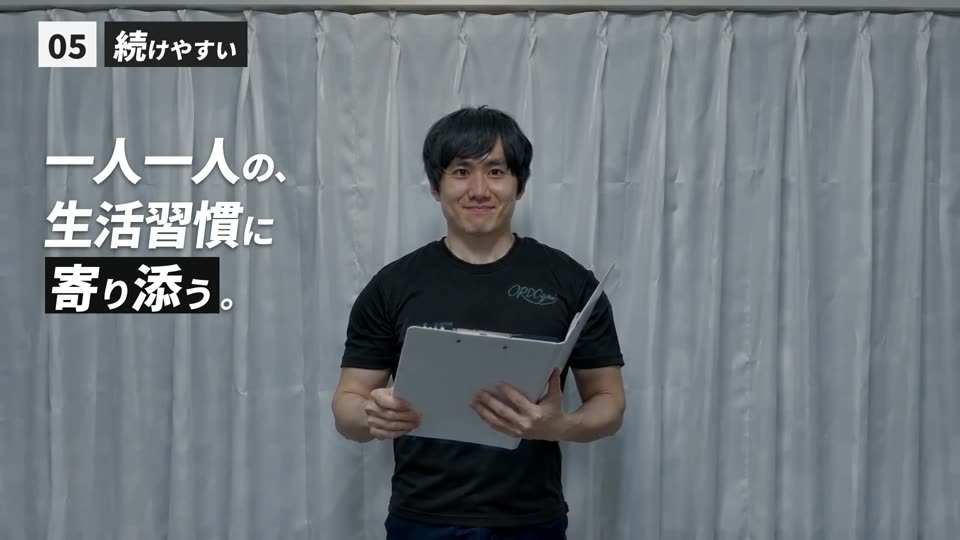
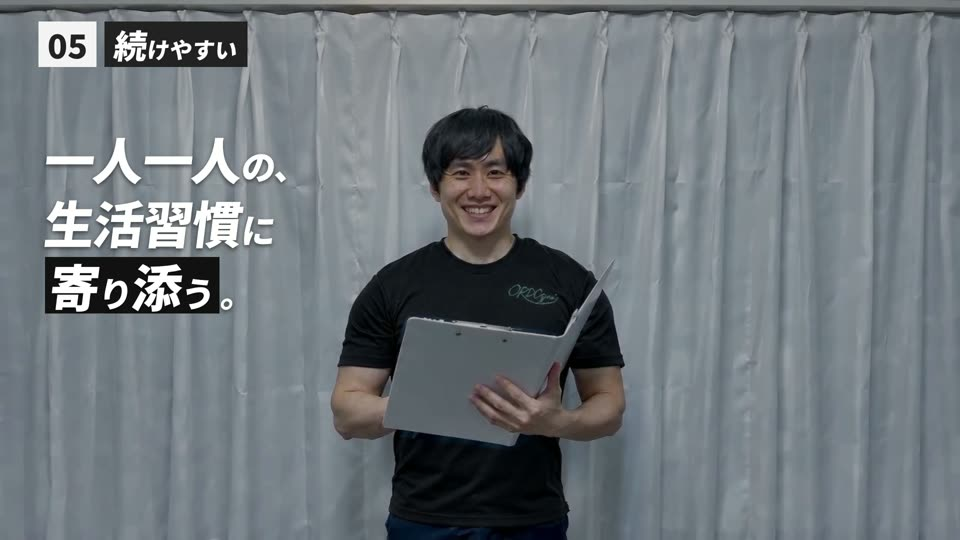
ORDOgni 確認ページ v2：YouTubeを最新版に差し替え・最後の画面と笑顔の場面の画像を更新

diff --git a/ordogni-final-v2.html b/ordogni-final-v2.html
@@ -73,11 +73,11 @@ strong{color:var(--ink)}
 <!-- ============ ジム編 ============ -->
 <h2 id="gym">1本目：ジム編<small>51秒 ／ 1920×1080（16:9） ／ BGM・テロップ入り</small></h2>
 <div class="card">
-  <div class="yt"><iframe src="https://www.youtube.com/embed/e6xOpqrxdqg?rel=0&playsinline=1" referrerpolicy="strict-origin-when-cross-origin" allow="accelerometer; autoplay; clipboard-write; encrypted-media; gyroscope; picture-in-picture; web-share" title="ORDOgni様 ジム編 広告動画 修正版" loading="lazy" allowfullscreen></iframe></div>
+  <div class="yt"><iframe src="https://www.youtube.com/embed/QjiWtywwHGg?rel=0&playsinline=1" referrerpolicy="strict-origin-when-cross-origin" allow="accelerometer; autoplay; clipboard-write; encrypted-media; gyroscope; picture-in-picture; web-share" title="ORDOgni様 ジム編 広告動画 修正版" loading="lazy" allowfullscreen></iframe></div>
   <div class="body">
     <span class="tag">ジム編</span>
     <p>「ちゃんと鍛えてる？」という迷いから、相談→提案→サポート→報告→続けやすさの5章で、お二人のジムの進め方を見せる構成です。</p>
-    <a class="dl" href="https://youtu.be/e6xOpqrxdqg" target="_blank" rel="noopener">YouTubeで見る（限定公開）</a>
+    <a class="dl" href="https://youtu.be/QjiWtywwHGg" target="_blank" rel="noopener">YouTubeで見る（限定公開）</a>
   </div>
 </div>
 
@@ -87,9 +87,9 @@ strong{color:var(--ink)}
   <li>片手でダンベルを引くカットを外しました（お預かりした素材にない種目のため）。</li>
   <li>冒頭のダンベルを曲げる場面（G01）の、手の持ち方を直しました。</li>
   <li>先生のシャツを、黒地に左胸の緑のロゴに変えました。<strong>実際のシャツのお写真が届きましたら、それに合わせて差し替えます。</strong></li>
-  <li>「05 続けやすい」（G31）の先生の表情を、「だから、続けやすい。」（G36）と同じ自然な笑顔にしました。</li>
+  <li>「05 続けやすい」（G31）の先生の表情を、歯が見える自然な笑顔にしました。</li>
   <li>テロップ：G06「スタイルを、良くしたい」／G15「ポイントを押さえて、丁寧にサポート。」／G25「毎回の記録を、二人で共有。」／G31「一人一人の、生活習慣に寄り添う。」</li>
-  <li>最後の画面（G38）：検索窓をやめ、Instagram の QR コードにしました。ロゴも見やすくしています。</li>
+  <li>最後の画面（G38）：検索窓をやめ、Instagram のマークと QR コードにしました。ロゴも見やすくしています。</li>
 </ul>
 </div>
 
@@ -138,11 +138,11 @@ strong{color:var(--ink)}
 <!-- ============ ネイル編 ============ -->
 <h2 id="nail">2本目：ネイル編<small>44秒 ／ 1920×1080（16:9） ／ BGM・テロップ入り</small></h2>
 <div class="card">
-  <div class="yt"><iframe src="https://www.youtube.com/embed/LeomxVTocJ0?rel=0&playsinline=1" referrerpolicy="strict-origin-when-cross-origin" allow="accelerometer; autoplay; clipboard-write; encrypted-media; gyroscope; picture-in-picture; web-share" title="ORDOgni様 ネイル編 広告動画" loading="lazy" allowfullscreen></iframe></div>
+  <div class="yt"><iframe src="https://www.youtube.com/embed/RQLXEnuSLWg?rel=0&playsinline=1" referrerpolicy="strict-origin-when-cross-origin" allow="accelerometer; autoplay; clipboard-write; encrypted-media; gyroscope; picture-in-picture; web-share" title="ORDOgni様 ネイル編 広告動画" loading="lazy" allowfullscreen></iframe></div>
   <div class="body">
     <span class="tag">ネイル編</span>
     <p>「仕事柄、カラーネイルはできないしな…」「こんな手で、サロンは恥ずかしい」という悩みから、自爪の魅力を引き出すサロンであることを伝え、「変わったのは、手だけじゃない。」で締める構成です。</p>
-    <a class="dl" href="https://youtu.be/LeomxVTocJ0" target="_blank" rel="noopener">YouTubeで見る（限定公開）</a>
+    <a class="dl" href="https://youtu.be/RQLXEnuSLWg" target="_blank" rel="noopener">YouTubeで見る（限定公開）</a>
   </div>
 </div>
 
@@ -155,7 +155,7 @@ strong{color:var(--ink)}
   <li>N19〜N20「自爪ケアだけでも、」→ 看護師の笑顔で「輝く指先。」（「輝く」を金色に）。</li>
   <li>N22「大丈夫。」の場面に、自然な動きをつけました。</li>
   <li>N24「きれいな指先で、気分は上々。」：お友達と笑い合う場面にしました。</li>
-  <li>最後の画面（N25）：「変わったのは、手だけじゃない。」とロゴ、Instagram の QR コードにしました（検索窓は外しました）。</li>
+  <li>最後の画面（N25）：「変わったのは、手だけじゃない。」とロゴ、Instagram のマークと QR コードにしました（検索窓は外しました）。</li>
 </ul>
 </div>
 
